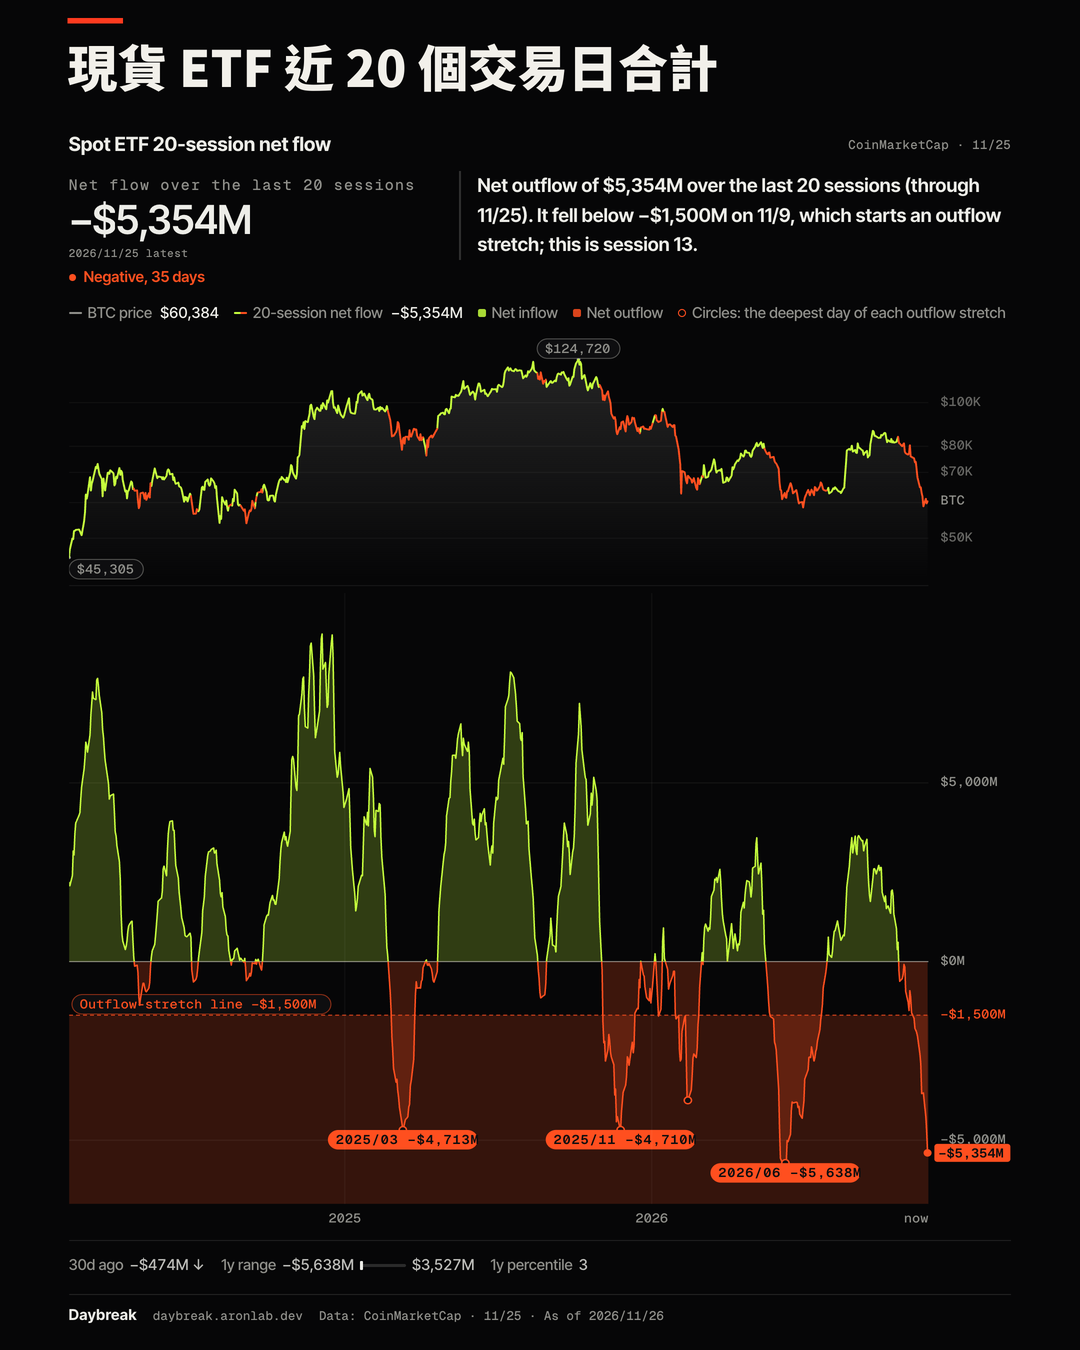
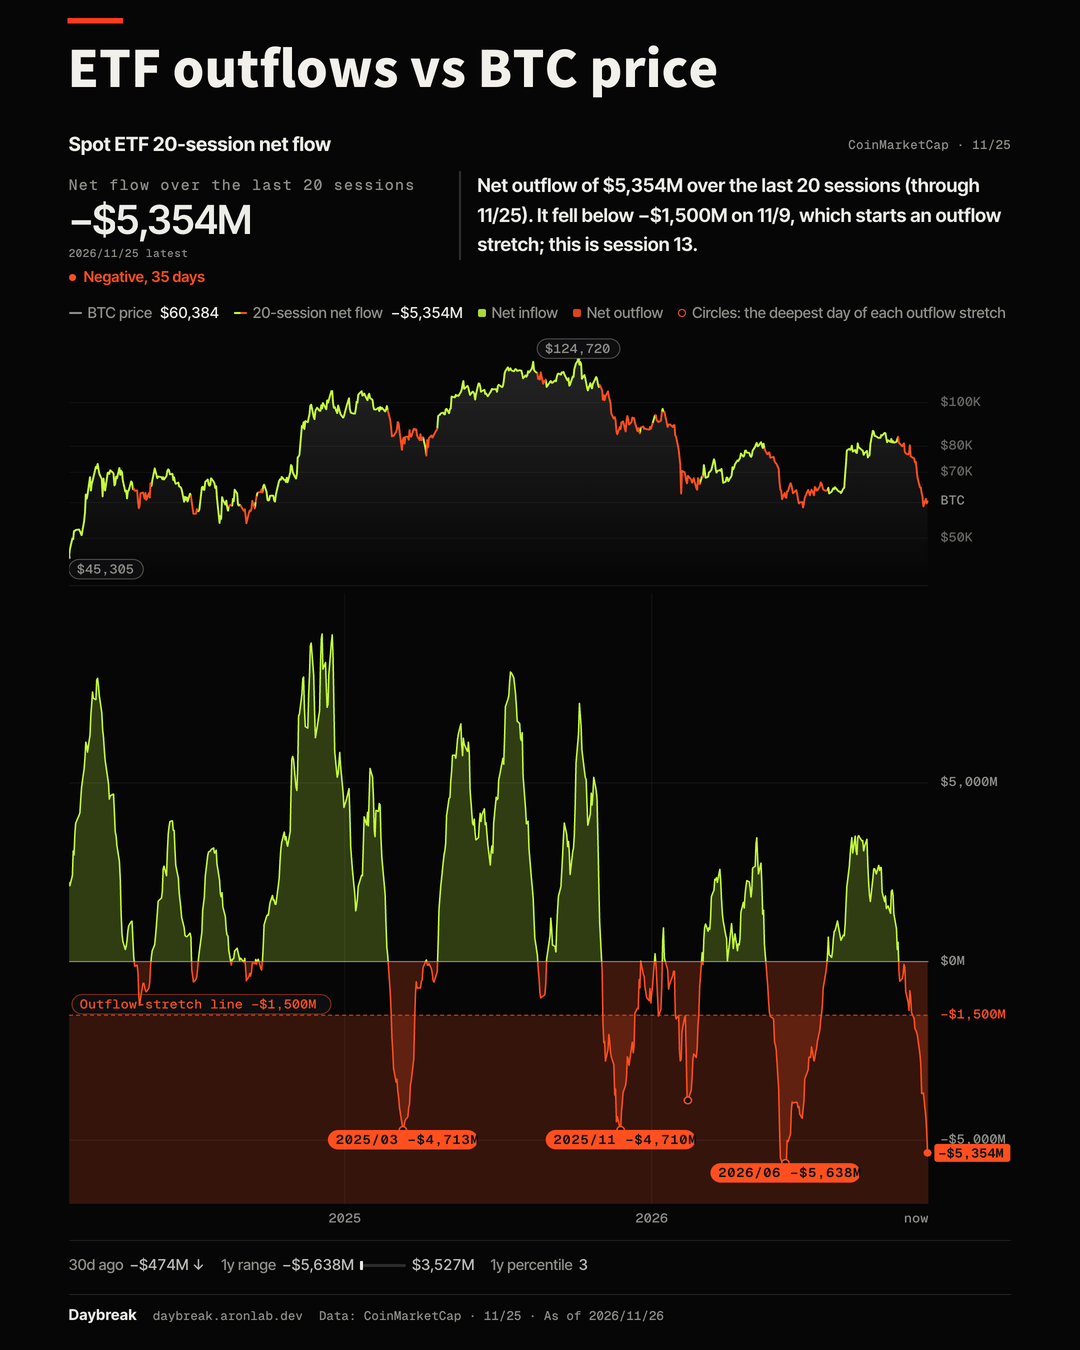
replies: #128 DaanCrypto 配圖標題改英文；check.py 擋英文回覆配中文標題

Changed region(s): [[0.0611, 0.0311, 0.6722, 0.0933]]

diff --git a/ops/replies/check.py b/ops/replies/check.py
@@ -269,6 +269,10 @@ def repeat_errors(items):
     free = no_quota_accounts()   # 2026-11-15 使用者：no_quota 的帳號（Murphy）不受「同一張圖一天一次」限制，也不佔別人的那一次
     for it in items:
         if it.get('status') == 'skip' or not it.get('image'): continue
+        # 2026-11-27 使用者看到 #128（英文引用）配圖標題是中文：英文的圖標題要英文、中文的要中文
+        t = it['image'].get('title') or ''
+        if it.get('lang') != 'zh' and re.search(r'[\u4e00-\u9fff]', t): err.append(f'#{it["n"]} 英文回覆的配圖標題是中文「{t}」，改成英文（卡片本身會照 lang 截英文版）')
+        if it.get('lang') == 'zh' and t and not re.search(r'[\u4e00-\u9fff]', t): err.append(f'#{it["n"]} 中文回覆的配圖標題沒有中文「{t}」')
         if (it.get('author') or '').lower() in free:
             im = it['image']; sel = (im.get('site') or {}).get('sel') or im.get('chart')   # 外推圖只有舊版寫法才指得到
             if str(sel).startswith('#c-ev-'): err.append(f'#{it["n"]} 配圖 {sel} 有外推線和推算日期，不配（只放已經發生的走勢）')
